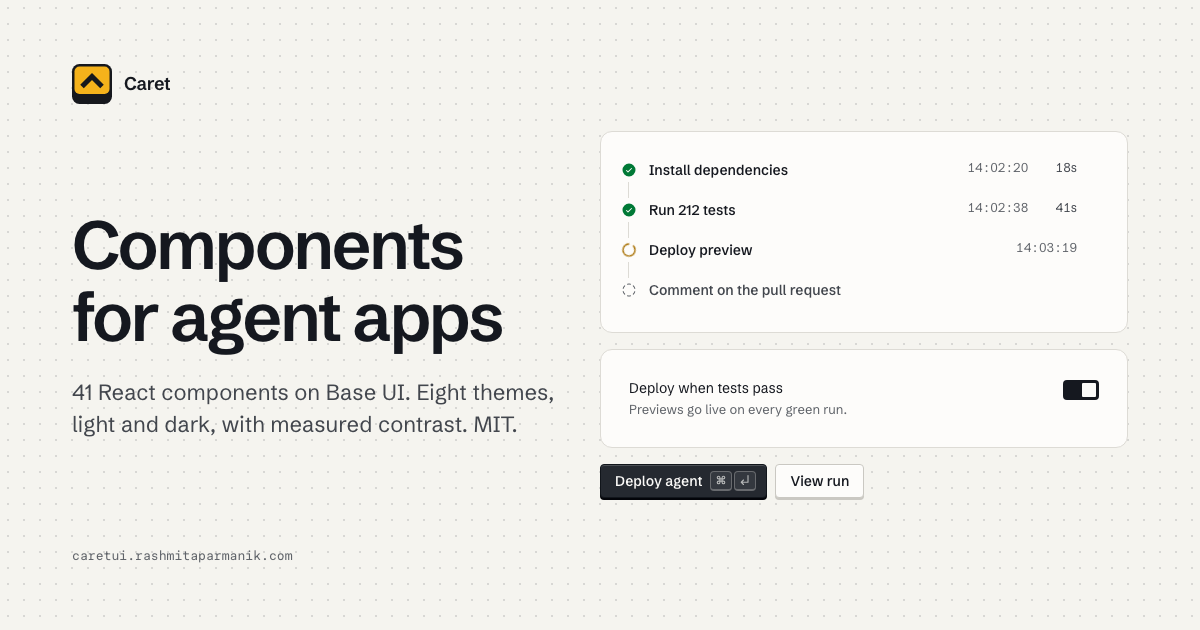
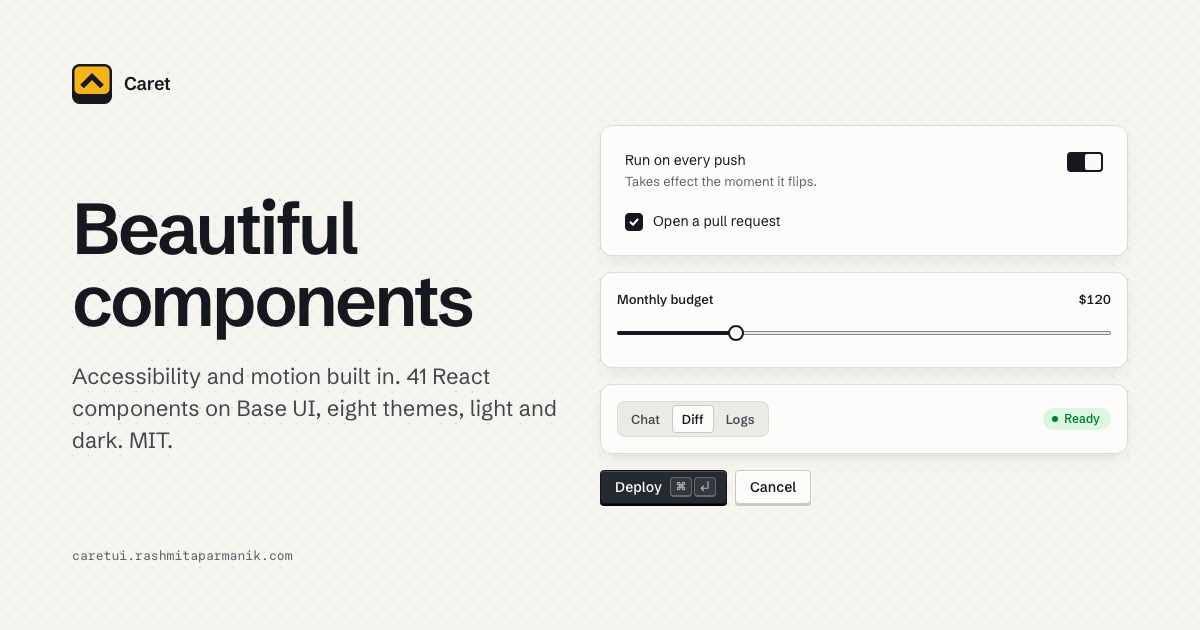
Position Caret as beautiful components with accessibility and motion built in
Caret is a foundation library, not only for agent apps: the README, the
docs home and getting started, DESIGN.md, llms.txt, the page title and the
share card now say so, with the agent parts as one strength among many.
The OG card shows everyday controls.

Also: on phones the page wrapper no longer adds its own padding, so the
side gutter is 16px instead of 32px.

diff --git a/index.html b/index.html
@@ -3,23 +3,23 @@
   <head>
     <meta charset="utf-8" />
     <meta name="viewport" content="width=device-width, initial-scale=1, viewport-fit=cover" />
-    <title>Caret — a design system for software made by people and agents</title>
-    <meta name="description" content="React components for agent apps: the chat, run traces, logs and diffs, and every form and menu around them. 41 components on Base UI, eight themes, light and dark." />
+    <title>Caret — beautiful components with accessibility and motion built in</title>
+    <meta name="description" content="Beautiful React components with accessibility and motion built in. 41 components on Base UI, eight themes in light and dark, a keyboard path for every control. Open source." />
     <link rel="icon" href="/caret.svg" type="image/svg+xml" />
     <link rel="canonical" href="https://caretui.rashmitaparmanik.com/" />
     <!-- Link previews. Crawlers don't run the app, so these are the only tags they see, on every page. -->
     <meta property="og:type" content="website" />
     <meta property="og:site_name" content="Caret" />
-    <meta property="og:title" content="Caret — components for agent apps" />
-    <meta property="og:description" content="React components for agent apps: the chat, run traces, logs and diffs, and every form and menu around them. 41 components on Base UI, eight themes, light and dark." />
+    <meta property="og:title" content="Caret — beautiful components, accessibility and motion built in" />
+    <meta property="og:description" content="Beautiful React components with accessibility and motion built in. 41 components on Base UI, eight themes in light and dark, a keyboard path for every control. Open source." />
     <meta property="og:url" content="https://caretui.rashmitaparmanik.com/" />
     <meta property="og:image" content="https://caretui.rashmitaparmanik.com/og.png" />
     <meta property="og:image:width" content="1200" />
     <meta property="og:image:height" content="630" />
-    <meta property="og:image:alt" content="Caret: components for agent apps. A run timeline, a setting switch and a Deploy agent button." />
+    <meta property="og:image:alt" content="Caret: beautiful components with accessibility and motion built in. Buttons, switches, a slider, a timeline and more." />
     <meta name="twitter:card" content="summary_large_image" />
-    <meta name="twitter:title" content="Caret — components for agent apps" />
-    <meta name="twitter:description" content="React components for agent apps: the chat, run traces, logs and diffs, and every form and menu around them. 41 components on Base UI, eight themes, light and dark." />
+    <meta name="twitter:title" content="Caret — beautiful components, accessibility and motion built in" />
+    <meta name="twitter:description" content="Beautiful React components with accessibility and motion built in. 41 components on Base UI, eight themes in light and dark, a keyboard path for every control. Open source." />
     <meta name="twitter:image" content="https://caretui.rashmitaparmanik.com/og.png" />
     <!-- Self-hosted fonts, preloaded so they're usually in before first paint (see index.css). -->
     <link rel="preload" href="/fonts/schibsted-grotesk-latin-wght-normal.woff2" as="font" type="font/woff2" crossorigin />

diff --git a/src/docs/shell/showcase-page.tsx b/src/docs/shell/showcase-page.tsx
@@ -19,7 +19,7 @@ const code = "rounded-inline bg-sunken px-1 py-px text-caption";
 export function ShowcasePage() {
   const count = PAGES.filter((p) => p.kind === "component").length;
   useEffect(() => {
-    document.title = "Caret — components for agent apps";
+    document.title = "Caret — beautiful components with accessibility and motion built in";
   }, []);
 
   return (
@@ -27,8 +27,8 @@ export function ShowcasePage() {
       <header className="flex flex-col items-start">
         <h1 className="m-0 text-h1 font-heading">Caret</h1>
         <p className="mt-3 mb-6 max-w-[56ch] text-body text-ink-2">
-          React components for agent apps: the chat, run traces and diffs, and every form and menu around them. {count}{" "}
-          components on Base UI, copied into your repo.
+          Beautiful React components with accessibility and motion built in. {count} components on Base UI, from forms and
+          menus to chat and run timelines, copied into your repo.
         </p>
         <div className="flex flex-wrap gap-2">
           <Button variant="primary" nativeButton={false} render={<Link to="/docs/$slug" params={{ slug: "getting-started" }} />}>
@@ -46,8 +46,8 @@ export function ShowcasePage() {
         <h2 id="h-faq" className="m-0 text-h2 font-heading">Questions</h2>
         <Accordion className="w-full">
           <AccordionItem value="what" title="What is Caret?">
-            A set of React components for software people and agents build together: the controls every app needs, plus the
-            parts an agent interface needs, like chat, run traces, diffs and a composer.
+            A React component library that works out of the box: beautiful by default, with accessibility and motion built in.
+            It has the controls every app needs, plus the parts agent interfaces need, like chat, run traces, diffs and a composer.
           </AccordionItem>
           <AccordionItem value="install" title="How do I install it?">
             Add the dependencies and copy the source into your repo. There's no package to update: the code is yours.

diff --git a/src/docs/shell/topbar.tsx b/src/docs/shell/topbar.tsx
@@ -42,7 +42,7 @@ export const REPO_URL = "https://github.com/RashP07/caret-ui";
 export function TopBar({ frameClassName }: { frameClassName?: string }) {
   const [menuOpen, setMenuOpen] = useState(false);
   return (
-    <header className="sticky top-0 z-20 h-14 border-b border-(--rule) bg-[color-mix(in_srgb,var(--page)_86%,transparent)] px-6 backdrop-blur-[10px] max-[1000px]:px-4">
+    <header className="sticky top-0 z-20 h-14 border-b border-(--rule) bg-[color-mix(in_srgb,var(--page)_86%,transparent)] px-6 backdrop-blur-[10px] max-[1000px]:px-4 max-[600px]:px-0">
       {/* The frame's width, with transparent sides and the column's padding, so the crumbs line up with the text below. */}
       <div className={cn("mx-auto flex h-full w-full items-center gap-3 border-x border-transparent", COLUMN_PAD, frameClassName)}>
         <span className="hidden max-[1000px]:flex">

diff --git a/scripts/llms-txt.ts b/scripts/llms-txt.ts
@@ -48,7 +48,7 @@ function llmsTxt(origin: string): string {
   const out = [
     "# Caret",
     "",
-    "> React components for agent apps: the chat, run traces and diffs, and every form and menu around them. Built on Base UI and Tailwind CSS v4, and copied into your repo as source you own.",
+    "> Beautiful React components with accessibility and motion built in: every form, menu and overlay an app needs, plus chat, run traces and diffs for agent interfaces. Built on Base UI and Tailwind CSS v4, and copied into your repo as source you own.",
     "",
     `Every component works in eight themes, light and dark. Rules for coding agents, ready to drop into a repo as AGENTS.md: ${origin}/agents.md. The full design rules (tokens, composition, accessibility, motion) follow this index in ${origin}/llms-full.txt.`,
   ];

diff --git a/src/docs/pages/getting-started.tsx b/src/docs/pages/getting-started.tsx
@@ -22,7 +22,7 @@ export default function GettingStarted() {
     <Section
       id="getting-started"
       title="Getting started"
-      lede="Caret is a design system for tools where people and agents build software together. You get copy-in React components on Base UI, eight themes in light and dark, measured contrast, and a keyboard path for every control."
+      lede="Caret is a library of beautiful React components with accessibility and motion built in. You get copy-in React components on Base UI, eight themes in light and dark, measured contrast, and a keyboard path for every control."
     >
       <PageHeading>Three principles</PageHeading>
       <div className="grid grid-cols-3 gap-4 max-[860px]:grid-cols-1">

diff --git a/src/docs/foundations.tsx b/src/docs/foundations.tsx
@@ -55,7 +55,7 @@ export function Hero({ pressB }: { pressB: boolean }) {
             </span>
           </h1>
           <p className="m-0 mb-6 max-w-[46ch] text-title leading-7 font-normal tracking-normal text-pretty text-ink-2">
-            Caret is a design system for tools where people and agents build software together. Every control makes
+            Caret is a library of beautiful React components with accessibility and motion built in. Every control makes
             its state legible, every value has a token name you can type, and nothing ships without its keyboard story.
           </p>
           <div className="flex flex-wrap gap-2">

diff --git a/src/docs/shell/layout.tsx b/src/docs/shell/layout.tsx
@@ -74,7 +74,8 @@ export function DocsLayout({ children }: { children: ReactNode }) {
       {/* Clips the margin grid at the sidebar's line and the window's edge; clip, not hidden, so sticky still works. */}
       <div className="min-w-0 overflow-x-clip">
         <TopBar frameClassName={frame} />
-        <div className="px-6 max-[1000px]:px-4">
+        {/* On phones the column carries the whole 16px gutter (COLUMN_PAD); this wrapper adds none. */}
+        <div className="px-6 max-[1000px]:px-4 max-[600px]:px-0">
           <div
             className={cn(
               "relative mx-auto grid min-h-[calc(100dvh-56px)] w-full",

diff --git a/README.md b/README.md
@@ -5,15 +5,16 @@
 
 # Caret
 
-**React components for agent apps:** the chat, run traces, logs and diffs, and every form and menu
-around them. 41 components on [Base UI](https://base-ui.com), eight themes in light and dark, and a
-keyboard path for every control. Copy them into your repo and they're yours.
+**Beautiful React components with accessibility and motion built in.** 41 components on
+[Base UI](https://base-ui.com), eight themes in light and dark, and a keyboard path for every control.
+Copy them into your repo and they're yours.
 
 **[See every component live →](https://caretui.rashmitaparmanik.com)**
 
-Caret is a design system for tools where people and agents build software together. It's built
-for the parts those tools share: a conversation with an agent, the steps of a run, output that's
-still arriving, and settings that take effect the moment they flip.
+Caret works out of the box. Every state is visible, every control works from the keyboard, contrast
+is checked in every theme, and motion answers what you do, then gets out of the way. It covers what
+every app needs (forms, menus, dialogs, tables) and what agent interfaces need too: a chat with its
+trace, the steps of a run, and output that's still arriving.
 
 ## What's inside
 

diff --git a/DESIGN.md b/DESIGN.md
@@ -1,6 +1,6 @@
 # DESIGN.md — Caret
 
-Caret is a design system for tools where people and agents build software together.
+Caret is a library of beautiful React components with accessibility and motion built in.
 This file is the source of truth for its philosophy and rules. **Read it before you add,
 change, or compose anything.** When the code and this file disagree, fix one of them. Don't
 leave them out of sync.
